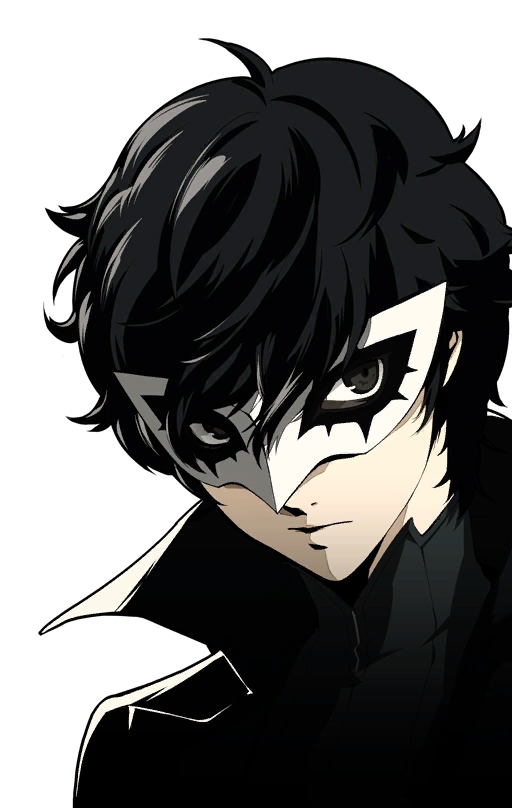
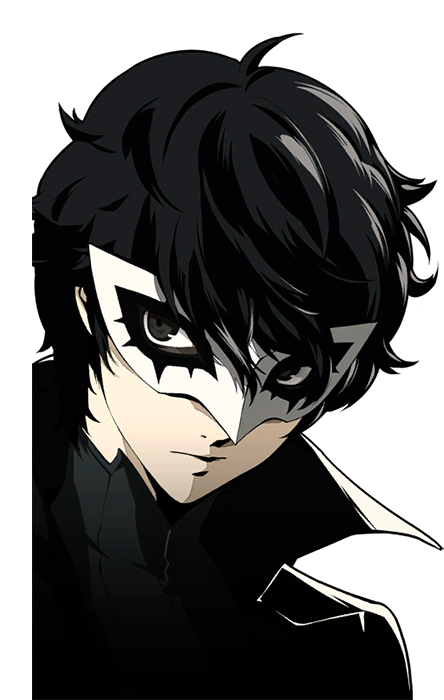
formulario y correción de errores 1
agregué el formulario y corregí lo de la navegación

diff --git a/index.html b/index.html
@@ -18,8 +18,8 @@
     <a class="navbar-brand" href="#">
       <picture>
         <source media="(max-width: 990px)" srcset="img/atlus_logo_xs.png">
-        <img src="img/atlus_logo_xl.png" alt="">
-      </picture>
+        <img src="img/atlus_logo_xl.png" alt="Atlus Logo">
+      </picture></a>
     <button class="navbar-toggler" type="button" data-toggle="collapse" data-target="#navbarNav" aria-controls="navbarNav" aria-expanded="false" aria-label="Toggle navigation">
       <span class="navbar-toggler-icon"></span>
     </button>
@@ -184,28 +184,39 @@ Demon's Souls: Uno de los mayores éxitos sorpresa de todos los tiempos, Demon's
 
 <section>
   <div id="contacto" class="container mt-5">
-    <h2>Contacto</h2>
-    <div class="row mt-4">
-      <div class="col-md-6 offset-md-3">
+    <div class="row">
+      <div class="col-md-6">
+        <h2>Contacto</h2>
+        <div class="txt">Para obtener soporte general o técnico, sugerencias o comentarios podés rellenar el siguiente formulario.</div>
+        
         <form>
           <div class="form-group">
-            <label for="name">Nombre</label>
-            <input type="text" class="form-control" id="name" required>
+            <label for="nombre">Nombre</label>
+            <input type="text" class="form-control" id="nombre" placeholder="Ingresa tu nombre">
           </div>
           <div class="form-group">
-            <label for="lastname">Apellido</label>
-            <input type="text" class="form-control" id="lastname" required>
+            <label for="apellido">Apellido</label>
+            <input type="text" class="form-control" id="apellido" placeholder="Ingresa tu apellido">
           </div>
           <div class="form-group">
             <label for="email">Email</label>
-            <input type="email" class="form-control" id="email" required>
+            <input type="email" class="form-control" id="email" placeholder="Ingresa tu email">
           </div>
           <div class="form-group">
-            <label for="comment">Comentario</label>
-            <textarea class="form-control" id="comment" rows="5" required></textarea>
+            <label for="comentario">Comentario</label>
+            <textarea class="form-control" id="comentario" rows="5" placeholder="Ingresa tu comentario"></textarea>
           </div>
-          <button type="submit" class="btn btn-primary">Enviar</button>
+          <div class="form-check">
+            <input class="form-check-input" type="checkbox" value="" id="defaultCheck1">
+            <label class="form-check-label" for="defaultCheck1">
+            Subscribirse al newsteller
+            </label>
+          </div>          
+          <button type="submit" class="btn btn-danger">Enviar</button>
         </form>
+      </div>
+      <div class="col-md-6">
+        <img class="img-fluid" src="img/joker.png" alt="Imagen de contacto">
       </div>
     </div>
   </div>

diff --git a/css/style.css b/css/style.css
@@ -44,6 +44,15 @@ h5 {
 /* galeria */
 
 
+/* formulario */
+
+.txt {
+    background-color: gray;
+    color: white;
+    padding: 20px;
+    margin: 10px 0px 20px 0px;
+}
+
 
 /* footer */
 
